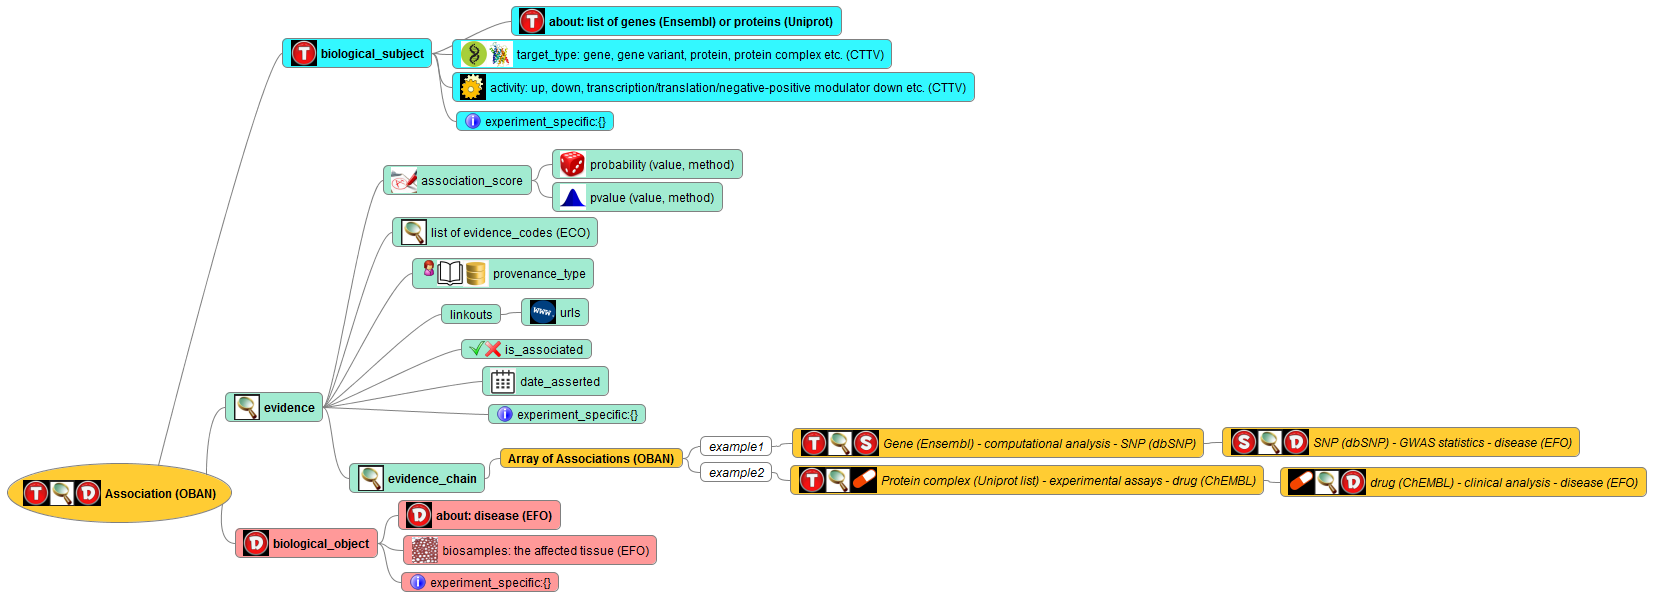
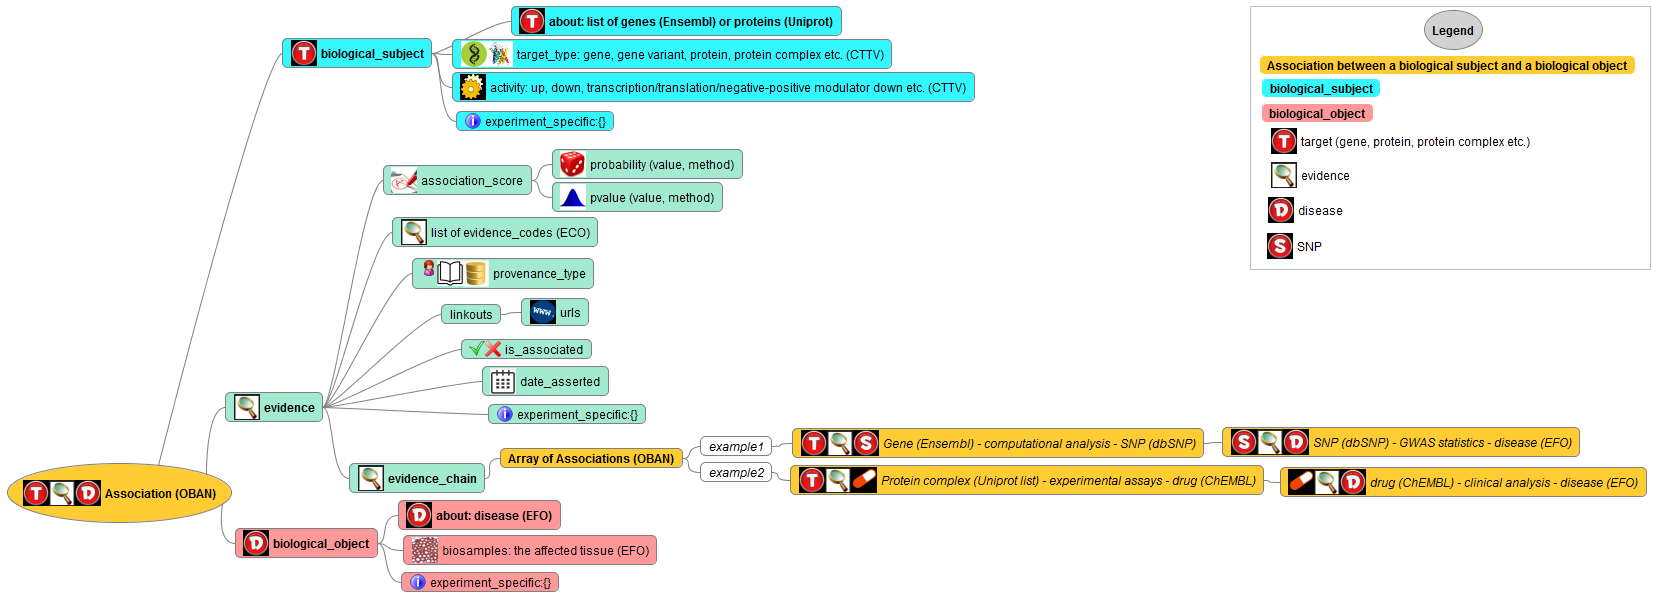
first commit

Changed region(s): [[0.7396, 0.0, 1.0, 0.4515]]

diff --git a/changes/schema_1_1_legend.mm b/changes/schema_1_1_legend.mm
@@ -1,0 +1,28 @@
+<map version="0.9.0">
+<!-- To view this file, download free mind mapping software FreeMind from http://freemind.sourceforge.net -->
+<node BACKGROUND_COLOR="#ffcc33" CREATED="1415706426564" ID="ID_58045614" MODIFIED="1416166194609" STYLE="bubble" TEXT="Legend">
+<edge COLOR="#ffffff"/>
+<font BOLD="true" NAME="SansSerif" SIZE="12"/>
+<node BACKGROUND_COLOR="#ffcc33" CREATED="1415710313586" HGAP="153" ID="ID_1736177401" MODIFIED="1416166135378" POSITION="right" TEXT="Association between a biological subject and a biological object" VSHIFT="43">
+<font BOLD="true" NAME="SansSerif" SIZE="12"/>
+</node>
+<node BACKGROUND_COLOR="#33f8ff" CREATED="1415706439507" HGAP="155" ID="ID_379658927" MODIFIED="1416166144228" POSITION="right" STYLE="bubble" TEXT="biological_subject">
+<font BOLD="true" NAME="SansSerif" SIZE="12"/>
+</node>
+<node BACKGROUND_COLOR="#ff9999" CREATED="1415706476189" HGAP="155" ID="ID_1166247508" MODIFIED="1416166147957" POSITION="right" STYLE="bubble" TEXT="biological_object" VSHIFT="2">
+<font BOLD="true" NAME="SansSerif" SIZE="12"/>
+</node>
+<node CREATED="1416165965141" HGAP="156" ID="ID_1382380810" MODIFIED="1416166149782" POSITION="right" TEXT="target (gene, protein, protein complex etc.)" VSHIFT="-1">
+<icon BUILTIN="target"/>
+</node>
+<node CREATED="1416165988927" HGAP="156" ID="ID_1074915897" MODIFIED="1416166152025" POSITION="right" TEXT="evidence" VSHIFT="-2">
+<icon BUILTIN="evidence"/>
+</node>
+<node CREATED="1416166005050" HGAP="153" ID="ID_767977472" MODIFIED="1416166154151" POSITION="right" TEXT="disease" VSHIFT="-3">
+<icon BUILTIN="disease"/>
+</node>
+<node CREATED="1416166015018" HGAP="152" ID="ID_819859765" MODIFIED="1416166157115" POSITION="right" TEXT="SNP" VSHIFT="-94">
+<icon BUILTIN="snp"/>
+</node>
+</node>
+</map>
